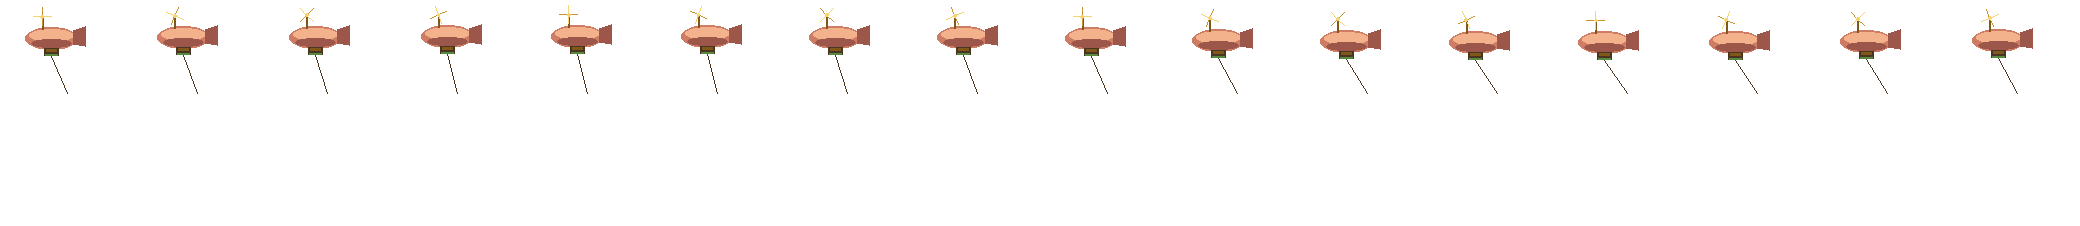
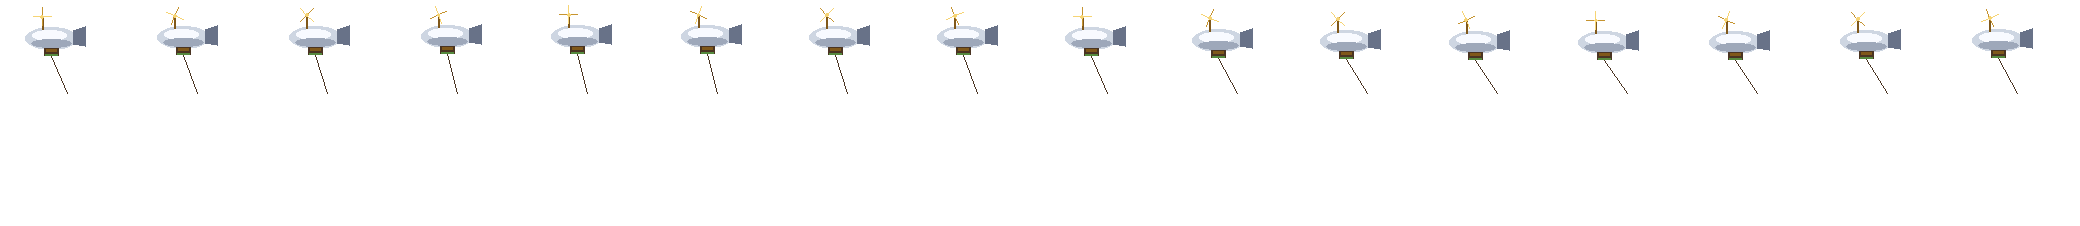
White blimps, and a seed refused as a question
Two playtest notes.

**The blimps are white**, which needed one more tone than the colour it
replaces did — three greys made a bowl, because the belly shadow that read
as roundness on a salmon hull became a hole in a near-white one. Four now,
with the deepest kept for the fin and the cut edge. The generator commit has
the reasoning.

**A seed the ground will not take is now a question, not a cross.** A cactus
wants sand and the garden is dirt; the answer is a walk, not a different tap,
and a cross says neither. So it goes over her head in the same cloud the
animals ask for food in — the seed, and a question mark — which is a sentence
any child who has fed a chicken has already read.

It moved from the square to over her head deliberately, and `report`'s own
rule decides that: a refusal she fixes by *moving* belongs over her. It is
the only refusal in the game whose answer is "try somewhere else".

The cloud is centred over her now, the way an animal's is over its animal.
Drawn from its bottom-left corner without a half-width, it hung off her right
shoulder — which nobody had noticed because it is gone again in under a
second.

**Which is also why this has a seam rather than a screenshot.** The cloud
fades in four hundred milliseconds and every tap helper in the harness waits
five hundred before it looks, so a picture taken the obvious way is a picture
of an empty field. I read three of those as "the bubble is broken" and went
[…]

Changed region(s): [[0.0, 0.0929, 1.0, 0.2478]]

diff --git a/src/scenes/GameScene.ts b/src/scenes/GameScene.ts
@@ -1394,6 +1394,16 @@ export class GameScene extends Phaser.Scene {
    * states of its own and keeps them in `marking`.
    */
   private armed: Armed | null = null;
+  /**
+   * What was last thought over her head, and whether it was crossed out.
+   *
+   * A dev seam, and one that earned itself. These clouds live for four
+   * hundred milliseconds and every tap in the browser harness waits five
+   * hundred before it looks — so a screenshot taken the obvious way catches
+   * an empty field and says the feature is broken. It is not a thing a
+   * picture can settle, which is exactly what a seam is for.
+   */
+  private lastThought: { icons: string[]; crossed: boolean } | null = null;
   /** The rune hanging over her head while a spell waits for a tap. */
   private armedRune?: Phaser.GameObjects.Image;
   /** The square she is pointing at, and the ground an armed spell may reach. */
@@ -2143,6 +2153,7 @@ export class GameScene extends Phaser.Scene {
         };
       },
       spellHint: () => this.spellPopup?.hintText ?? "",
+      thought: () => this.lastThought,
       share: () => {
         const cast = this.sharePopup?.cast;
         if (!cast) return null;
@@ -6229,6 +6240,14 @@ export class GameScene extends Phaser.Scene {
       this.showRefusalOnPlayer(result.outcome === Outcome.NoneLeft ? icon : undefined);
       return;
     }
+    // The ground will not take this crop, which is the one refusal that is
+    // about *where she is standing* rather than about the square. A cactus
+    // wants sand; the answer is a walk, not a different tap. So it is asked
+    // as a question over her head rather than crossed out on the square.
+    if (result.outcome === Outcome.WrongGround && icon) {
+      this.showWonderOnPlayer(icon);
+      return;
+    }
     const tile = result.tile;
     if (!tile) return;
     this.markRefusal(tile.col, tile.row);
@@ -6282,7 +6301,36 @@ export class GameScene extends Phaser.Scene {
    * hides the half that says *which* thing they have none of.
    */
   private showCostOnPlayer(icons: readonly string[]): void {
-    const x = this.player.x;
+    this.showThoughtOnPlayer(icons, true);
+  }
+
+  /**
+   * And the same cloud without a cross, for a refusal that is a *question*.
+   *
+   * The two are not the same message and should not look the same. A cross
+   * means no: you have not got the stone, and no amount of trying here will
+   * change that. A crop the ground will not take is a different thing —
+   * carrots are fine, this ground is not, and somewhere a few steps away is.
+   * So the cloud holds the seed and a question mark, which is exactly the
+   * sentence the animals already use to ask for something, and a child who
+   * has fed a chicken has read it before.
+   *
+   * Reported over her head rather than as a cross on the square, which is
+   * where it used to go. `report`'s own rule decides that: a refusal she
+   * fixes by *moving* belongs over her, and this is the one refusal in the
+   * game whose answer is "try it somewhere else".
+   */
+  private showWonderOnPlayer(icon: string): void {
+    this.showThoughtOnPlayer([icon, UiAsset.MarkQuestion], false);
+  }
+
+  private showThoughtOnPlayer(icons: readonly string[], crossed: boolean): void {
+    this.lastThought = { icons: [...icons], crossed };
+    // Centred over her, the way an animal's cloud is centred over the animal.
+    // The cloud is drawn from its bottom-left, so without the half-width it
+    // hangs off her right shoulder — which nobody had noticed because it is
+    // gone again in under a second.
+    const x = this.player.x - BUBBLE_W / 2;
     const y = this.player.y - TILE_SIZE - BUBBLE_H / 2;
     const span = icons.length * BUBBLE_SLOT + (icons.length - 1) * BUBBLE_SLOT_GAP;
     const left = BUBBLE_INNER_X + (BUBBLE_INNER_W - span) / 2;
@@ -6300,14 +6348,18 @@ export class GameScene extends Phaser.Scene {
     // And the cross, beside the cloud rather than over it. Over the top it
     // would hide the half that says *which* things are wanted, which is the
     // only part a child who cannot read the word "stone" can use.
-    const half = RESULT_ICON * 0.4;
-    const mark = this.add.graphics().setPosition(-half * 1.6, -BUBBLE_H / 2);
-    mark.lineStyle(3, REFUSAL_COLOR, 1);
-    mark.lineBetween(-half, -half, half, half);
-    mark.lineBetween(half, -half, -half, half);
+    const parts: Phaser.GameObjects.GameObject[] = [];
+    if (crossed) {
+      const half = RESULT_ICON * 0.4;
+      const mark = this.add.graphics().setPosition(-half * 1.6, -BUBBLE_H / 2);
+      mark.lineStyle(3, REFUSAL_COLOR, 1);
+      mark.lineBetween(-half, -half, half, half);
+      mark.lineBetween(half, -half, -half, half);
+      parts.push(mark);
+    }
 
     const shown = this.world(
-      this.add.container(x, y, [mark, cloud, ...drawn]).setDepth(this.player.depth + 1),
+      this.add.container(x, y, [...parts, cloud, ...drawn]).setDepth(this.player.depth + 1),
     );
     this.tweens.add({
       targets: shown,

diff --git a/e2e/flowers.e2e.ts b/e2e/flowers.e2e.ts
@@ -2,7 +2,9 @@
 // SPDX-License-Identifier: PolyForm-Noncommercial-1.0.0
 
 import { afterAll, describe, expect, test } from "bun:test";
+import { UiAsset, cropIcon } from "../src/ui/assets";
 import { FLOWER_LOOKS, FLOWER_TYPES, type FlowerType } from "../src/world/flowers";
+import { PlantType } from "../src/world/plants";
 import { type Game, play, seedButton, shutDown } from "./harness";
 
 const MINUTES = 60_000;
@@ -176,6 +178,81 @@ describe("planting one", () => {
         // And a bed that vanished overnight is a bed nobody plants twice.
         await game.reload();
         expect((await game.seam<Flowers>("flowers")).planted).toEqual(before.planted);
+      });
+    },
+    5 * MINUTES,
+  );
+});
+
+/**
+ * A seed the ground will not take, asked as a question rather than refused.
+ *
+ * The cactus wants sand and the garden is dirt, so this is the one refusal
+ * in the game whose answer is *go somewhere else* — and it says so with the
+ * same cloud the animals ask for food in: the seed, and a question mark.
+ *
+ * **Asserted through a seam and not a screenshot, which cost me an
+ * afternoon.** The cloud fades in four hundred milliseconds and every tap
+ * helper in this harness waits five hundred before it looks, so a picture
+ * taken the obvious way is a picture of an empty field. I read three of
+ * those as "the bubble is broken" before catching one with a raw click.
+ */
+/** What is growing on the square she just aimed at, if anything. */
+function plantedBeside(game: Game): Promise<string | null> {
+  return game.tab.evaluate(() => {
+    const handle = (globalThis as never as Record<string, Record<string, unknown>>).__mathemagicum;
+    if (!handle) throw new Error("the game has not put its handle out");
+    const session = handle.session as {
+      tile: { col: number; row: number };
+      grid: { getPlant: (col: number, row: number) => string | null };
+    };
+    return session.grid.getPlant(session.tile.col, session.tile.row + 1);
+  });
+}
+
+describe("a seed that will not go in here", () => {
+  test(
+    "is wondered about, not crossed out",
+    async () => {
+      await play({ seams: "&hour=12&learned=all&freezeNpcs&crops=5" }, async (game) => {
+        await game.tap("seeds");
+        await game.tap(seedButton(PlantType.Cactus));
+        await game.tapNear(0, 1);
+
+        const thought = await game.seam<{ icons: string[]; crossed: boolean } | null>("thought");
+        if (!thought) throw new Error("nothing was thought about the cactus");
+        // The seed itself, so a child who cannot read knows which one, and a
+        // question rather than a cross: carrots are fine here and a cactus is
+        // fine somewhere, which is not what a cross says.
+        expect(thought.crossed).toBe(false);
+        expect(thought.icons).toEqual([cropIcon(PlantType.Cactus), UiAsset.MarkQuestion]);
+        // And nothing went in the ground.
+        //
+        // Asked of the square rather than of the basket: planting spends no
+        // seed — they are free, by design — so a basket count is the same
+        // number whether the cactus went in or not, and would have passed
+        // this test without testing anything.
+        expect(await plantedBeside(game)).toBeNull();
+      });
+    },
+    5 * MINUTES,
+  );
+
+  /**
+   * And a crop that *does* belong here is not wondered about at all.
+   *
+   * The half that stops the assertion above being satisfied by a game that
+   * puts a cloud over her head whatever happens.
+   */
+  test(
+    "while one that will go in simply goes in",
+    async () => {
+      await play({ seams: "&hour=12&learned=all&freezeNpcs&crops=5" }, async (game) => {
+        await game.tap("seeds");
+        await game.tap(seedButton(PlantType.Carrot));
+        await game.tapNear(0, 1);
+        expect(await game.seam("thought")).toBeNull();
+        expect(await plantedBeside(game)).toBe(PlantType.Carrot);
       });
     },
     5 * MINUTES,

diff --git a/src/scenes/devHooks.ts b/src/scenes/devHooks.ts
@@ -561,6 +561,15 @@ export interface DevHandle {
    */
   /** The help line under the addition parchment, if one is open. */
   readonly spellHint: () => string;
+  /**
+   * The last thing thought over her head: which pictures, and whether they
+   * were crossed out.
+   *
+   * A cloud lasts four hundred milliseconds and every tap in the harness
+   * waits five hundred before it looks, so this is the one piece of feedback
+   * in the game a screenshot genuinely cannot catch.
+   */
+  readonly thought: () => { icons: string[]; crossed: boolean } | null;
   readonly share: () => {
     total: number;
     parts: number;
